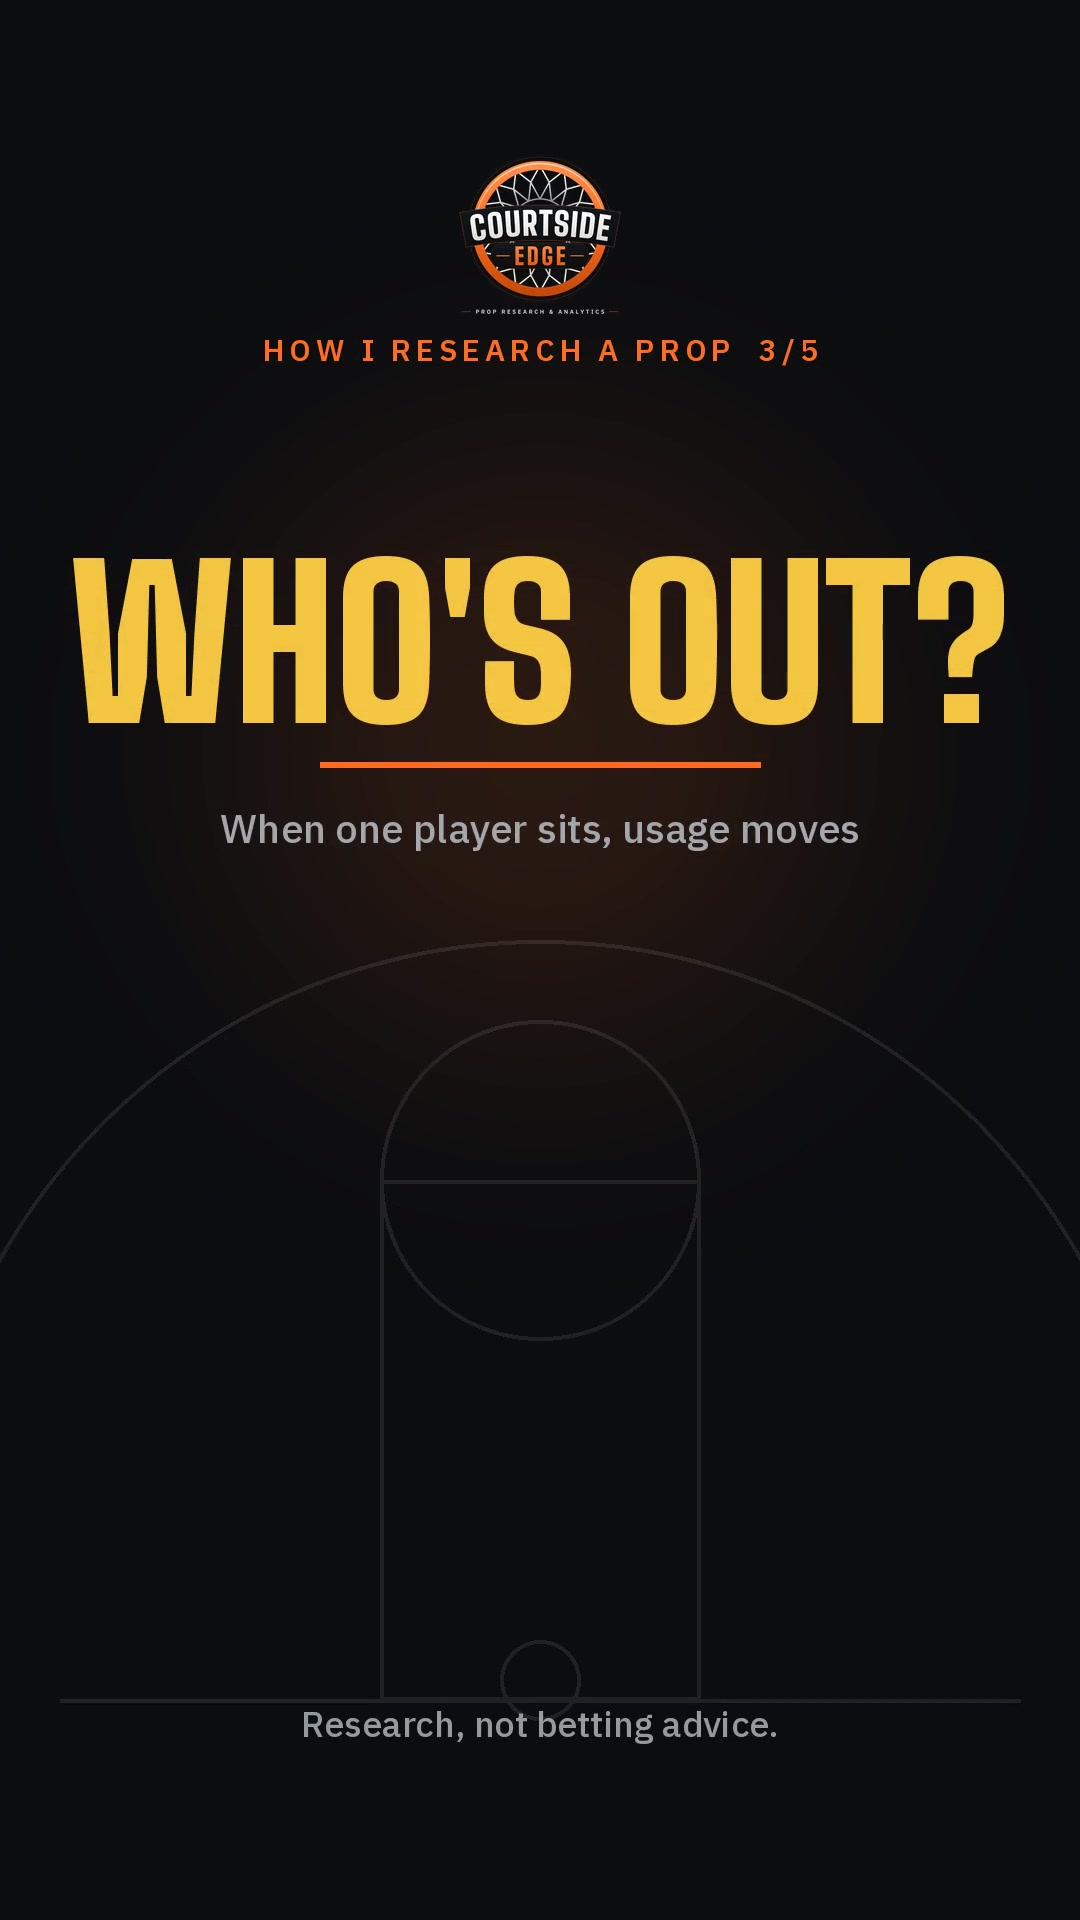
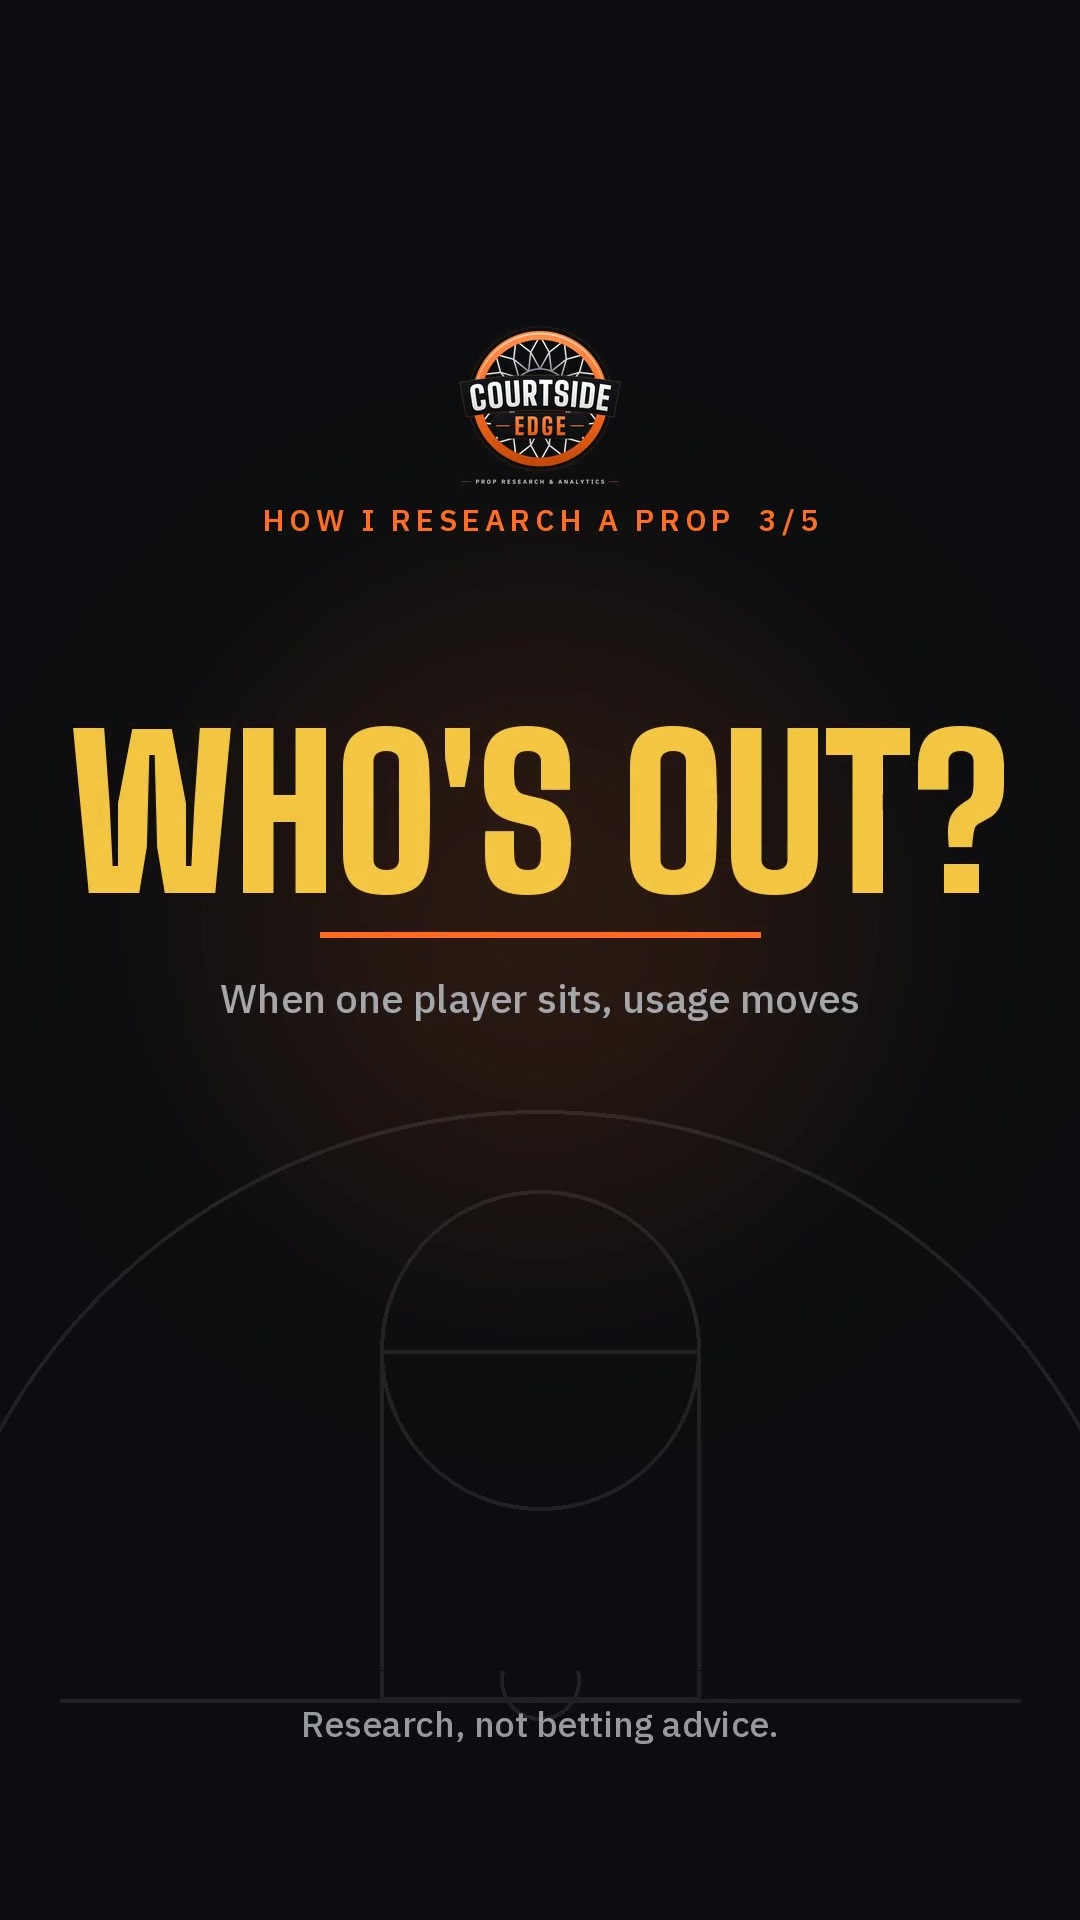
Covers: shift content into Instagram grid safe zone
Claude-Session: https://claude.ai/code/session_01HmGwkyydMk1PHRN9Qdg9nM

Changed region(s): [[0.0611, 0.0625, 0.9472, 0.5312], [0.7028, 0.1562, 0.7639, 0.1875]]

diff --git a/studio/series.py b/studio/series.py
@@ -265,8 +265,14 @@ def spec_blowout_report(recs, end=None):
 
 def make_cover(mp4):
     # Frame 0 is near-black (elements animate in), so Instagram needs an explicit cover.
+    # Take the settled frame at 1.6s, then shift the content down 170px so the logo and
+    # headline survive Instagram's 3:4 center crop on the profile grid.
     cov = mp4.rsplit('.', 1)[0] + '_cover.jpg'
     subprocess.run(['ffmpeg','-loglevel','error','-y','-ss','1.6','-i',mp4,'-frames:v','1','-q:v','2',cov], check=True)
+    from PIL import Image, ImageDraw
+    im = Image.open(cov).convert('RGB'); W, H = im.size
+    out = im.copy(); ImageDraw.Draw(out).rectangle((0, 0, W, 1670), fill=(11, 13, 16))
+    out.paste(im.crop((0, 0, W, 1500)), (0, 170)); out.save(cov, quality=93)
     return cov
 
 

diff --git a/studio/recap.py b/studio/recap.py
@@ -237,8 +237,14 @@ def render(facts, out_silent):
 
 def make_cover(mp4):
     # Frame 0 is near-black (elements animate in), so Instagram needs an explicit cover.
+    # Take the settled frame at 1.6s, then shift the content down 170px so the logo and
+    # headline survive Instagram's 3:4 center crop on the profile grid.
     cov = mp4.rsplit('.', 1)[0] + '_cover.jpg'
     subprocess.run(['ffmpeg','-loglevel','error','-y','-ss','1.6','-i',mp4,'-frames:v','1','-q:v','2',cov], check=True)
+    from PIL import Image, ImageDraw
+    im = Image.open(cov).convert('RGB'); W, H = im.size
+    out = im.copy(); ImageDraw.Draw(out).rectangle((0, 0, W, 1670), fill=(11, 13, 16))
+    out.paste(im.crop((0, 0, W, 1500)), (0, 170)); out.save(cov, quality=93)
     return cov
 
 

diff --git a/PLAYBOOK.md b/PLAYBOOK.md
@@ -29,3 +29,4 @@ TikTok has no automated posting for this account. The daily task writes the fini
 - Evergreen: see EVERGREEN.md (Sunday creator + Mon/Wed/Fri publisher share evergreen/queue.json). Banned terms are enforced by `studio/series.py spec`.
 
 - TikTok sounds: rotate, never the same sound within the last 5 posts (see tiktok_sounds.json; log each use). Whole Crew was used for the Nov 13-22 batch, so pick something different from now on.
+- Cover rule: make_cover shifts content down 170px so logo and headline survive Instagram's 3:4 profile-grid crop. Posted Reels keep old covers (Windsor cannot change them).
